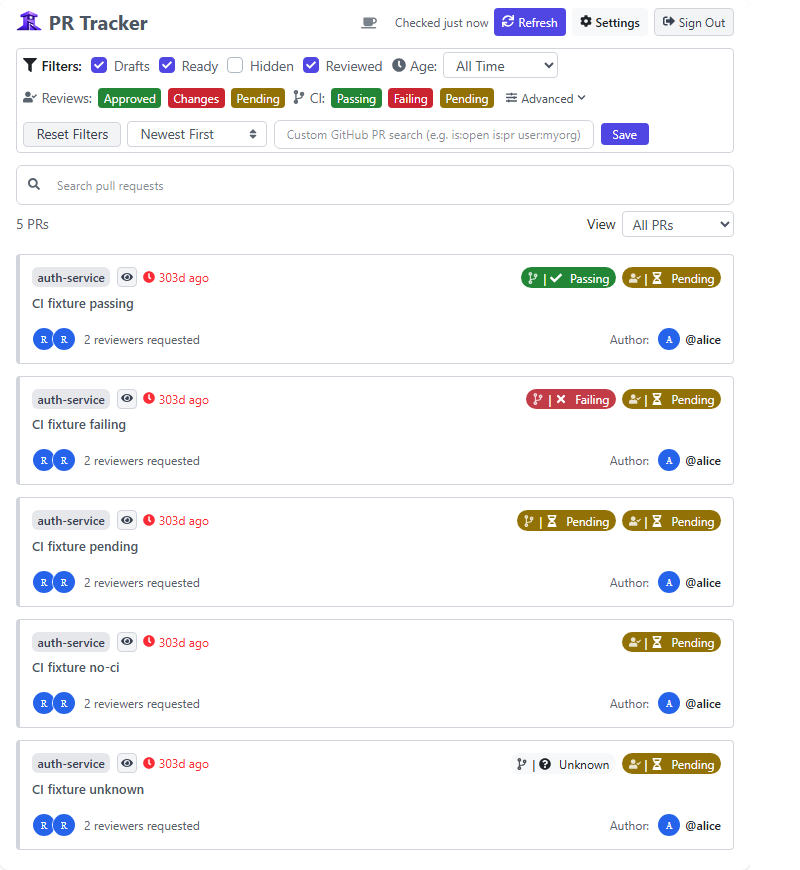
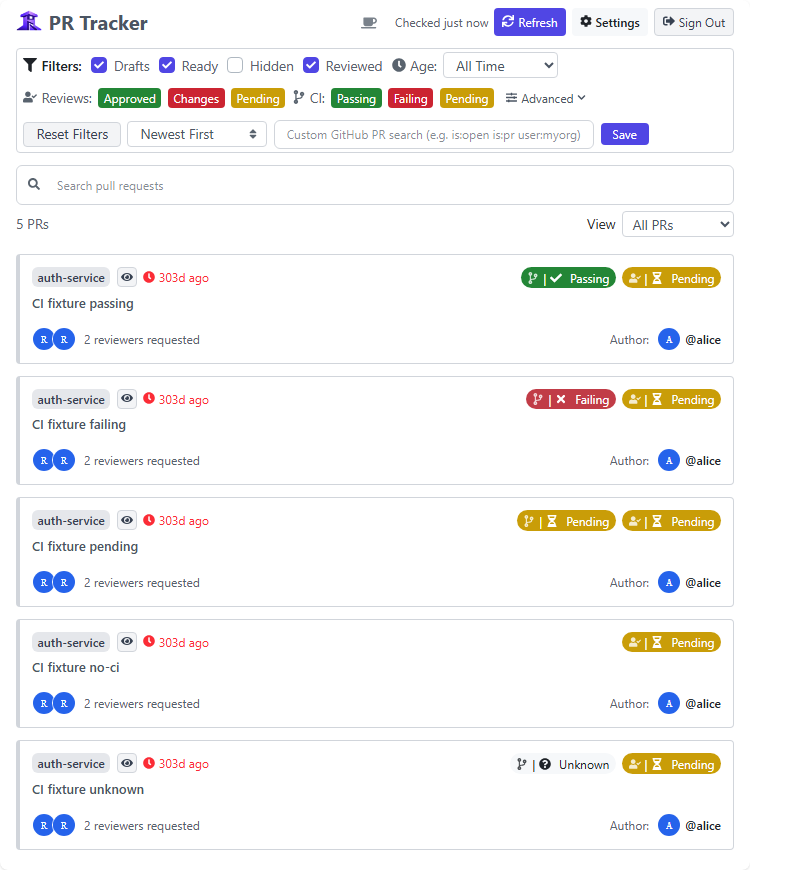
style: restore brighter yellow Pending badges

diff --git a/tests/e2e/popup-states.e2e.test.ts b/tests/e2e/popup-states.e2e.test.ts
@@ -113,7 +113,7 @@ describe('popup state journeys', () => {
     });
 
     it.each(['light', 'dark'] as const)(
-        'keeps card titles, metadata, and all status badges readable in %s',
+        'checks card wrapping, metadata and the chosen status colours in %s',
         async (theme) => {
             const titles = [
                 'Explain a long pull request title without hiding its useful context '.repeat(
@@ -287,7 +287,7 @@ describe('popup state journeys', () => {
                         expect(badge.lineHeight).toBe('16px');
                         expect(badge.foreground).toBe('rgb(255, 255, 255)');
                         if (badge.pending) {
-                            expect(badge.background).toBe('rgb(146, 114, 6)');
+                            expect(badge.background).toBe('rgb(201, 157, 8)');
                         }
                         expect(badge.textColours).toEqual([
                             badge.foreground,
@@ -308,8 +308,13 @@ describe('popup state journeys', () => {
                     expect(card.clipped).toBe(false);
                     expect(card.childrenFit).toBe(true);
                     expect(card.contrasts).toHaveLength(2);
-                    for (const contrast of card.contrasts) {
-                        expect(contrast).toBeGreaterThanOrEqual(4.5);
+                    for (const [index, contrast] of card.contrasts.entries()) {
+                        if (card.badgePresentation[index].pending) {
+                            // Approved visual preference: Pending is below the text target.
+                            expect(contrast).toBeCloseTo(2.527137811924373, 8);
+                        } else {
+                            expect(contrast).toBeGreaterThanOrEqual(4.5);
+                        }
                     }
                     expect(card.labels[0]).toMatch(/^CI: /);
                     expect(card.labels[1]).toMatch(/^Review: /);
@@ -365,7 +370,7 @@ describe('popup state journeys', () => {
                 primary: ['rgb(80, 70, 228)', 'rgb(255, 255, 255)'],
                 secondary: ['rgb(243, 244, 246)', 'rgb(55, 65, 81)'],
                 ci: ['rgb(35, 134, 54)', 'rgb(255, 255, 255)'],
-                review: ['rgb(146, 114, 6)', 'rgb(255, 255, 255)'],
+                review: ['rgb(201, 157, 8)', 'rgb(255, 255, 255)'],
             },
         ],
         [
@@ -379,7 +384,7 @@ describe('popup state journeys', () => {
                 primary: ['rgb(35, 134, 54)', 'rgb(255, 255, 255)'],
                 secondary: ['rgb(33, 38, 45)', 'rgb(230, 237, 243)'],
                 ci: ['rgb(35, 134, 54)', 'rgb(255, 255, 255)'],
-                review: ['rgb(146, 114, 6)', 'rgb(255, 255, 255)'],
+                review: ['rgb(201, 157, 8)', 'rgb(255, 255, 255)'],
             },
         ],
     ] as const)(

diff --git a/tests/helpers/statusContrast.ts b/tests/helpers/statusContrast.ts
@@ -112,9 +112,10 @@ export function assertStatusContrast(
     if (audit.rows.length < 20)
         throw new Error(`Incomplete status fixture: ${audit.rows.length} rows`);
     for (const row of audit.rows) {
-        if (row.state === 'pending' && row.selected !== 'false') {
+        const pending = row.state === 'pending' && row.selected !== 'false';
+        if (pending) {
             if (
-                row.background !== 'rgb(146, 114, 6)' ||
+                row.background !== 'rgb(201, 157, 8)' ||
                 [row.foreground, ...row.contentColours].some(
                     (colour) => colour !== 'rgb(255, 255, 255)'
                 )
@@ -122,12 +123,18 @@ export function assertStatusContrast(
                 throw new Error(
                     `Pending must use white text, icons and separators on the shared yellow: ${JSON.stringify(row)}`
                 );
+            // The user chose brighter yellow with white text despite the lower contrast.
+            // Record the exact exception, rather than claiming it meets WCAG thresholds.
+            if (Math.abs(row.contrast - 2.527137811924373) > 0.000001)
+                throw new Error(
+                    `Unexpected Pending contrast: ${JSON.stringify(row)}`
+                );
         }
-        if (row.contrast < 4.5)
+        if (!pending && row.contrast < 4.5)
             throw new Error(
                 `${row.context} ${row.state}: ${row.foreground} on ${row.background} = ${row.contrast}`
             );
-        if (row.icons.some((value) => value < 3))
+        if (!pending && row.icons.some((value) => value < 3))
             throw new Error(`Low icon contrast: ${JSON.stringify(row)}`);
     }
 }

diff --git a/tests/unit/status-contrast.unit.test.ts b/tests/unit/status-contrast.unit.test.ts
@@ -64,10 +64,8 @@ describe.each(['light', 'dark'] as const)('%s status colours', (theme) => {
         ].map((name) => [name, `${name}-foreground`]),
         ['popup-status-passing', 'popup-status-foreground'],
         ['popup-status-failing', 'popup-status-foreground'],
-        ['popup-status-pending', 'popup-status-pending-foreground'],
         ['popup-card-status-passing', 'popup-card-status-foreground'],
         ['popup-card-status-failing', 'popup-card-status-foreground'],
-        ['popup-card-status-pending', 'popup-status-pending-foreground'],
         ['popup-draft', 'popup-draft-foreground'],
         ['popup-surface', 'foreground'],
         ['popup-surface', 'popup-filter-foreground'],
@@ -80,8 +78,19 @@ describe.each(['light', 'dark'] as const)('%s status colours', (theme) => {
             ).toBeGreaterThanOrEqual(4.5);
         }
     );
+    it.each(['popup-status-pending', 'popup-card-status-pending'])(
+        'records the approved lower-contrast Pending treatment on %s',
+        (background) => {
+            const ratio = contrast(
+                resolve('--popup-status-pending-foreground'),
+                resolve(`--${background}`)
+            );
+            expect(ratio).toBeCloseTo(2.527137811924373, 8);
+            expect(ratio).toBeLessThan(4.5);
+        }
+    );
     it('uses the same white-on-yellow Pending pair for cards and active filters', () => {
-        expect(resolve('--popup-status-pending')).toBe('#927206');
+        expect(resolve('--popup-status-pending')).toBe('#c99d08');
         expect(resolve('--popup-card-status-pending')).toBe(
             resolve('--popup-status-pending')
         );

diff --git a/src/styles/tokens.css b/src/styles/tokens.css
@@ -68,7 +68,7 @@
     --popup-draft-foreground: #374151;
     --popup-status-passing: #238636;
     --popup-status-failing: #cb2431;
-    --popup-status-pending: #927206;
+    --popup-status-pending: #c99d08;
     --popup-status-pending-foreground: #ffffff;
     --popup-status-foreground: #ffffff;
     --popup-card-status-passing: #238636;
@@ -144,7 +144,7 @@
     --popup-draft-foreground: #d1d5db;
     --popup-status-passing: #238636;
     --popup-status-failing: #cb2431;
-    --popup-status-pending: #927206;
+    --popup-status-pending: #c99d08;
     --popup-status-foreground: #ffffff;
     --popup-notification-enabled: #22c55e;
     --popup-error-background: #7f1d1d;

diff --git a/tests/e2e/ci-status.e2e.test.ts b/tests/e2e/ci-status.e2e.test.ts
@@ -195,7 +195,7 @@ describe('five CI states', () => {
             ).toEqual([
                 { status: 'passing', background: 'rgb(35, 134, 54)' },
                 { status: 'failing', background: 'rgb(203, 36, 49)' },
-                { status: 'pending', background: 'rgb(146, 114, 6)' },
+                { status: 'pending', background: 'rgb(201, 157, 8)' },
             ]);
             const before = await page.$eval(
                 '.filter-bar-container',

diff --git a/tests/firefox/status-contrast.firefox.test.ts b/tests/firefox/status-contrast.firefox.test.ts
@@ -164,7 +164,7 @@ async function captureToolbar(name: string) {
 }
 
 it.each(['light', 'dark'] as const)(
-    'keeps status/filter text and icons readable in the real Firefox MV2 toolbar popup in %s',
+    'checks status colours and the Pending contrast exception in the real Firefox MV2 toolbar popup in %s',
     async (theme) => {
         await seedEncryptedState(page, { data: appData(prs), theme });
         await openToolbar();

diff --git a/tests/e2e/status-contrast.e2e.test.ts b/tests/e2e/status-contrast.e2e.test.ts
@@ -24,7 +24,7 @@ afterAll(async () => {
 });
 
 it.each(['light', 'dark'] as const)(
-    'keeps status/filter text, icons, hover and focus readable in the native Chrome popup in %s',
+    'checks status colours, the Pending contrast exception, hover and focus in the native Chrome popup in %s',
     async (theme) => {
         github.setScenario({ pullRequests: STATUS_PRS });
         const seed = await openSeededPopup(github, {

diff --git a/docs/investigations/status-filter-contrast.md b/docs/investigations/status-filter-contrast.md
@@ -3,10 +3,11 @@
 Follow-up to the [PR #112 investigation](grouping-performance-usability.md#accessibility).
 Checked on 13 November 2026 against `main` at `4643cd6` and this fix.
 
-Pending uses yellow `#927206` with white `#ffffff` text, icons and separators
-in cards and active filters. It keeps the original yellow's hue and saturation,
-with the lightness reduced enough to reach 4.5339:1 against white. Lighter nearby
-shades fail 4.5:1 (`#927306` is 4.4899:1). Active Passing and Approved
+Pending uses bright yellow `#c99d08` with white `#ffffff` text, icons and separators
+in cards and active filters. It is slightly darker than the original `#dbab09`.
+Following visual review, the user explicitly accepted lower Pending contrast to
+keep this brighter appearance with white content. Its **2.53:1 text contrast does
+not meet 4.5:1**, and its icons also fall below 3:1. Active Passing and Approved
 filters use the existing card green `#238636`. Their text is white in both themes,
 as is active red filter text. Card green/red, draft and neutral palettes are
 unchanged. Status names, icons, sizes, layout and filter behaviour are unchanged.
@@ -17,8 +18,9 @@ filter apparent without moving or resizing it.
 
 ## Measurements
 
-Ratios use WCAG sRGB relative luminance, with a **4.5:1 minimum for text** and
-3:1 for icons/focus indicators. Values below are rounded; assertions use the
+Ratios use WCAG sRGB relative luminance. The targets remain **4.5:1 for text** and
+3:1 for icons/focus indicators, with Pending explicitly excepted as described
+above. Values below are rounded; assertions use the
 unrounded ratio. Before values come from PR #112 and the unchanged `main` colour
 pairs. After values were read from computed styles in actual toolbar popups in
 Chrome for Testing **156.0.8078.47 MV3** and Firefox **160.0 MV2**, on Windows 11.
@@ -26,8 +28,8 @@ Both browsers returned the same values in each theme.
 
 | Text                         | Before light/dark | After light/dark |
 | ---------------------------- | ----------------: | ---------------: |
-| Pending card badge           |       2.13 / 2.13 |      4.53 / 4.53 |
-| Active Pending filter        |       2.13 / 1.81 |      4.53 / 4.53 |
+| Pending card badge           |       2.13 / 2.13 |      2.53 / 2.53 |
+| Active Pending filter        |       2.13 / 1.81 |      2.53 / 2.53 |
 | Active Passing/Approved      |       3.13 / 2.65 |      4.63 / 4.63 |
 | Active Failing/Changes       |       5.47 / 4.63 |      5.47 / 5.47 |
 | Passing/Approved card        |       4.63 / 4.63 |      4.63 / 4.63 |
@@ -39,8 +41,9 @@ Both browsers returned the same values in each theme.
 No CI intentionally has no card badge. Advanced choices retain ordinary text
 and native checkboxes. Active Drafts/Ready/Reviewed checkmarks remain 6.29:1
 in light and 4.63:1 in dark. Deselected Pending chips also pass the text threshold.
-Faded card icons are measured after compositing their existing 80% opacity:
-the minimum is **3.52:1**. Focus outlines exceed 3:1 against the filter surface.
+Faded card icons are measured after compositing their existing 80% opacity.
+Pending icons measure 2.13–2.53:1 and are part of the approved exception; other
+status icons still meet 3:1. Focus outlines exceed 3:1 against the filter surface.
 
 ## Reproduction and coverage
 
@@ -56,6 +59,9 @@ npx vitest run --config vitest.config.ts tests/firefox/status-contrast.firefox.t
 
 The unit matrix reads the real theme tokens, resolves inheritance and aliases,
 and covers every shared status variant plus production card/filter pairs.
+Pending tests assert the exact chosen colours, white content and measured ratio;
+they record the exception instead of claiming it passes the contrast targets.
+The 4.5:1 text and 3:1 icon checks remain for all other measured states.
 Browser fixtures include Passing, Failing, Pending, Approved, Changes, Draft,
 Unknown and No CI. GitHub responses are deterministic mocks; authentication,
 encrypted fixtures, CSS and components use the existing extension harness.
@@ -68,15 +74,16 @@ privileged frame for focus/click checks and the inspector's CSS hover lock;
 this verifies hover styling, not physical mouse or trusted keyboard input.
 Screenshots of the top, scrolled cards and focused filter are written with
 computed-colour JSON to the OS temporary directory as `pr-contrast-{browser}-*`.
-Visual review of both native popups in both themes confirmed the familiar
-yellow/green/red meanings, readable icons and no new wrapping or clipping.
+Visual review of both native popups in both themes confirmed the intended
+yellow/green/red meanings and no new wrapping or clipping.
 The four tracked CI-status/Advanced screenshots are refreshed for the new colours.
 
 Modern Web Guidance's colour and accessibility guides informed the contrast
 thresholds and `:focus-visible` outline. Fixed, tested token pairs work in both
 browsers without a dynamic colour API, library or permission change.
 
-This is a focused status/filter correction, not a complete accessibility audit.
+This is a focused status/filter change, not a complete accessibility audit.
+Pending remains below the contrast targets by the user's explicit choice.
 It does not establish screen-reader, high-zoom or forced-colours conformance;
 the remaining limitations in PR #112 still apply. Other popup text, including
 age indicators and search placeholders, is outside this colour change.
